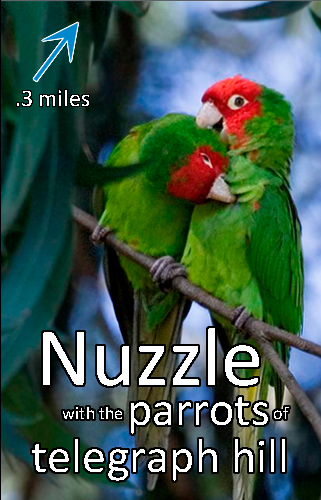
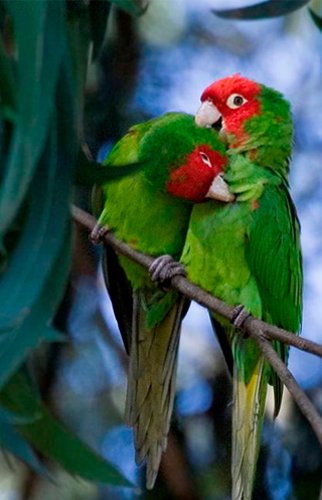
Removed title bar.

diff --git a/ios/App/Controllers/ExperienceViewController.m b/ios/App/Controllers/ExperienceViewController.m
@@ -24,6 +24,8 @@
     
     self.taglineLabel.text = self.experience.tagline;
     
+    self.imageView.contentMode = UIViewContentModeScaleAspectFit;
+    
     NSString *image = self.experience.image;
     
     (void)[self.imageView initWithImage:[UIImage imageWithData:[NSData dataWithContentsOfURL:[NSURL URLWithString:image]]]];

diff --git a/ios/App/Supporting Files/AppDelegate.m b/ios/App/Supporting Files/AppDelegate.m
@@ -18,6 +18,8 @@
 
     self.window.rootViewController = self.navigationController;
     
+    [self.navigationController setNavigationBarHidden:YES animated:YES];
+    
     [self.window makeKeyAndVisible];
     return YES;
 }
